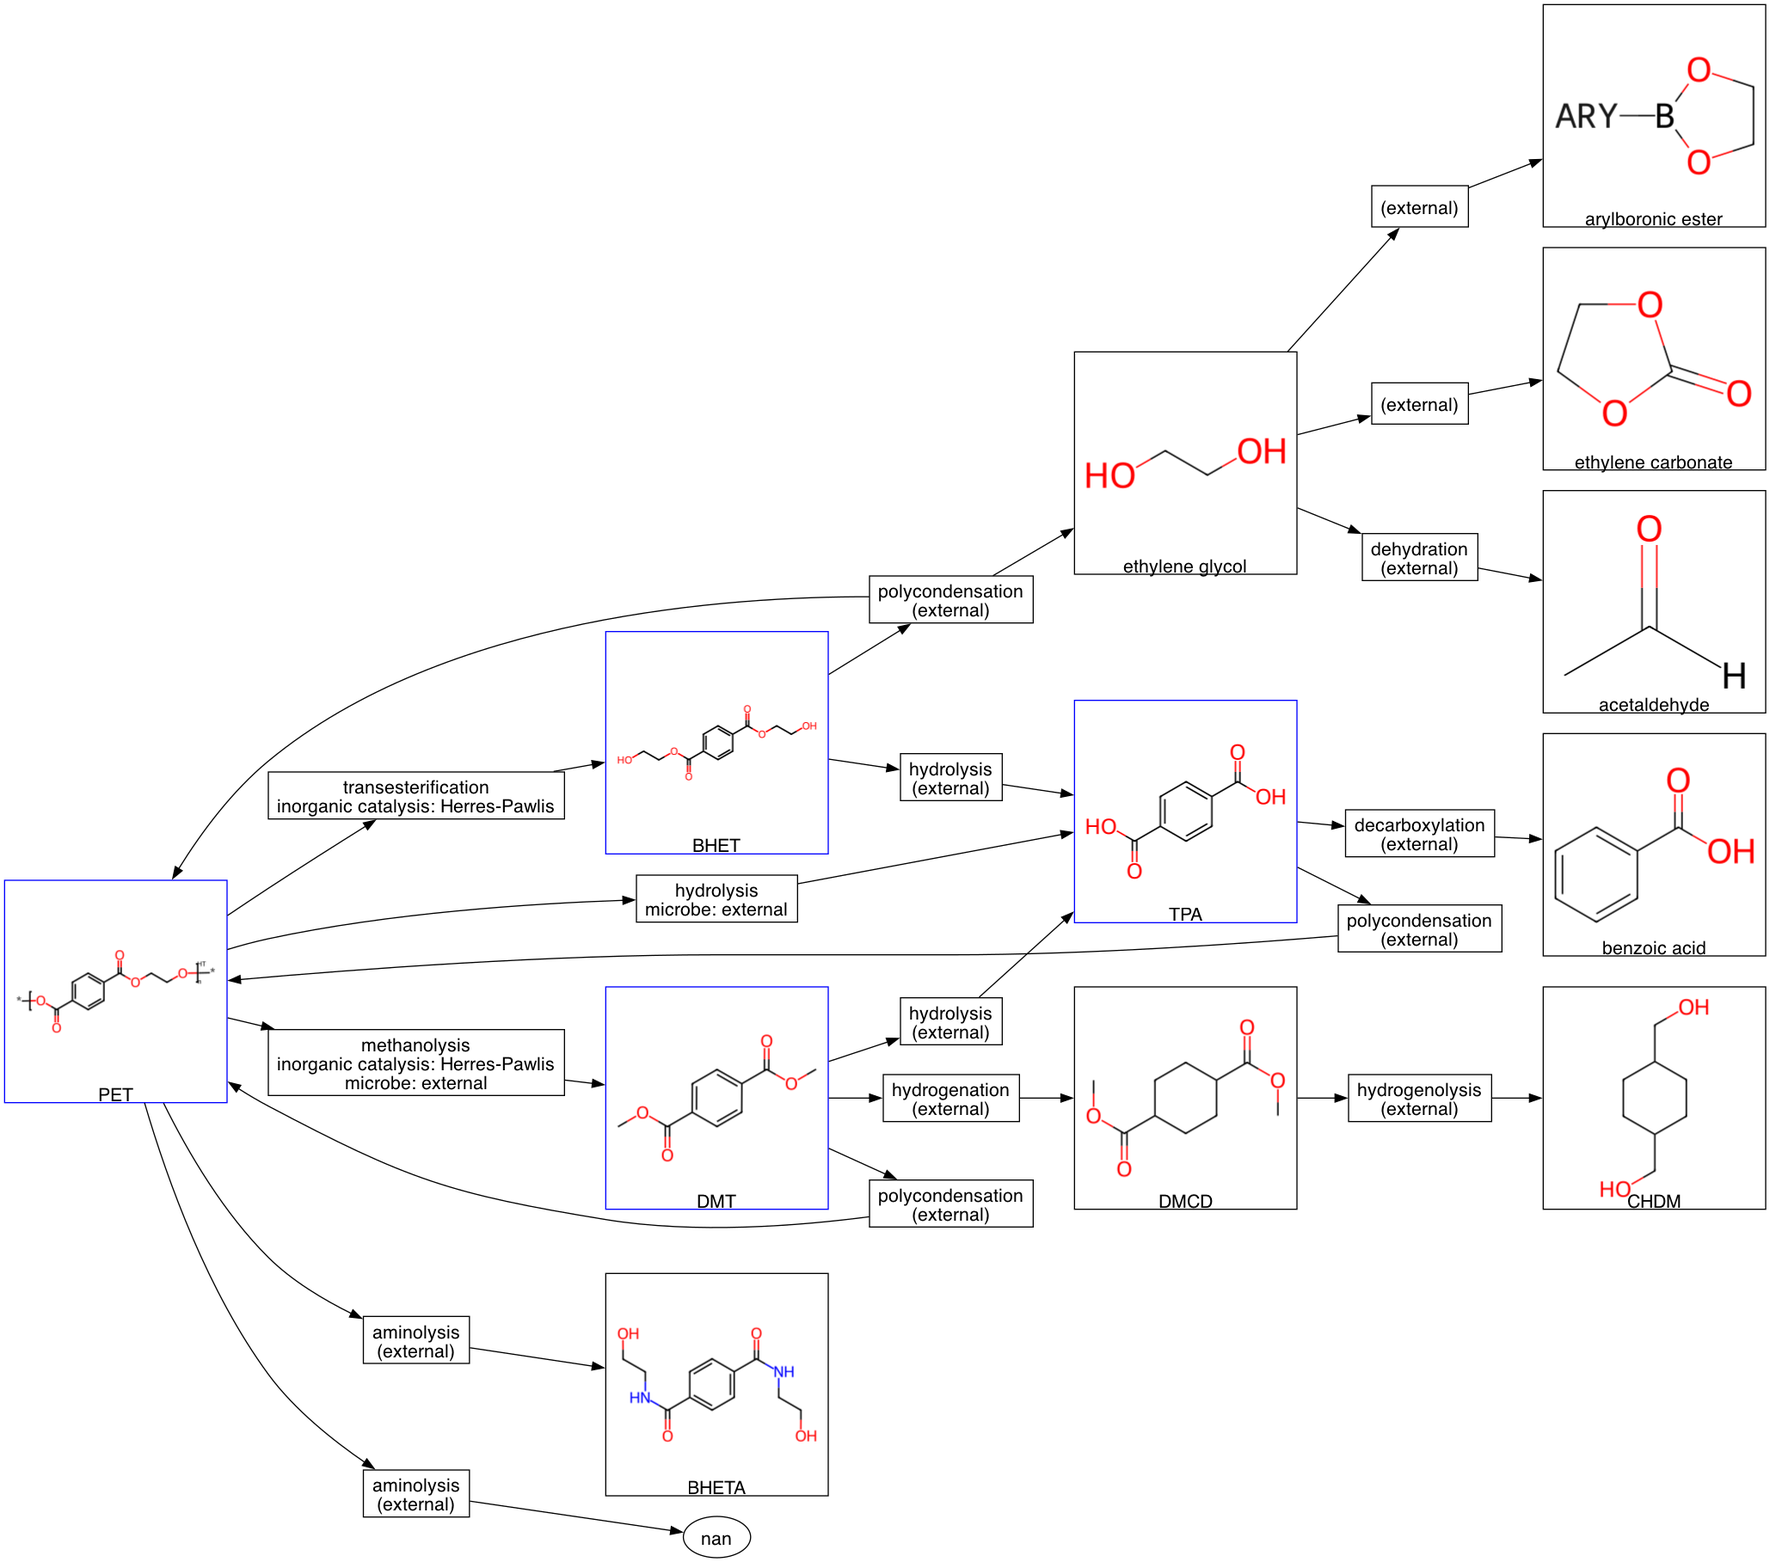
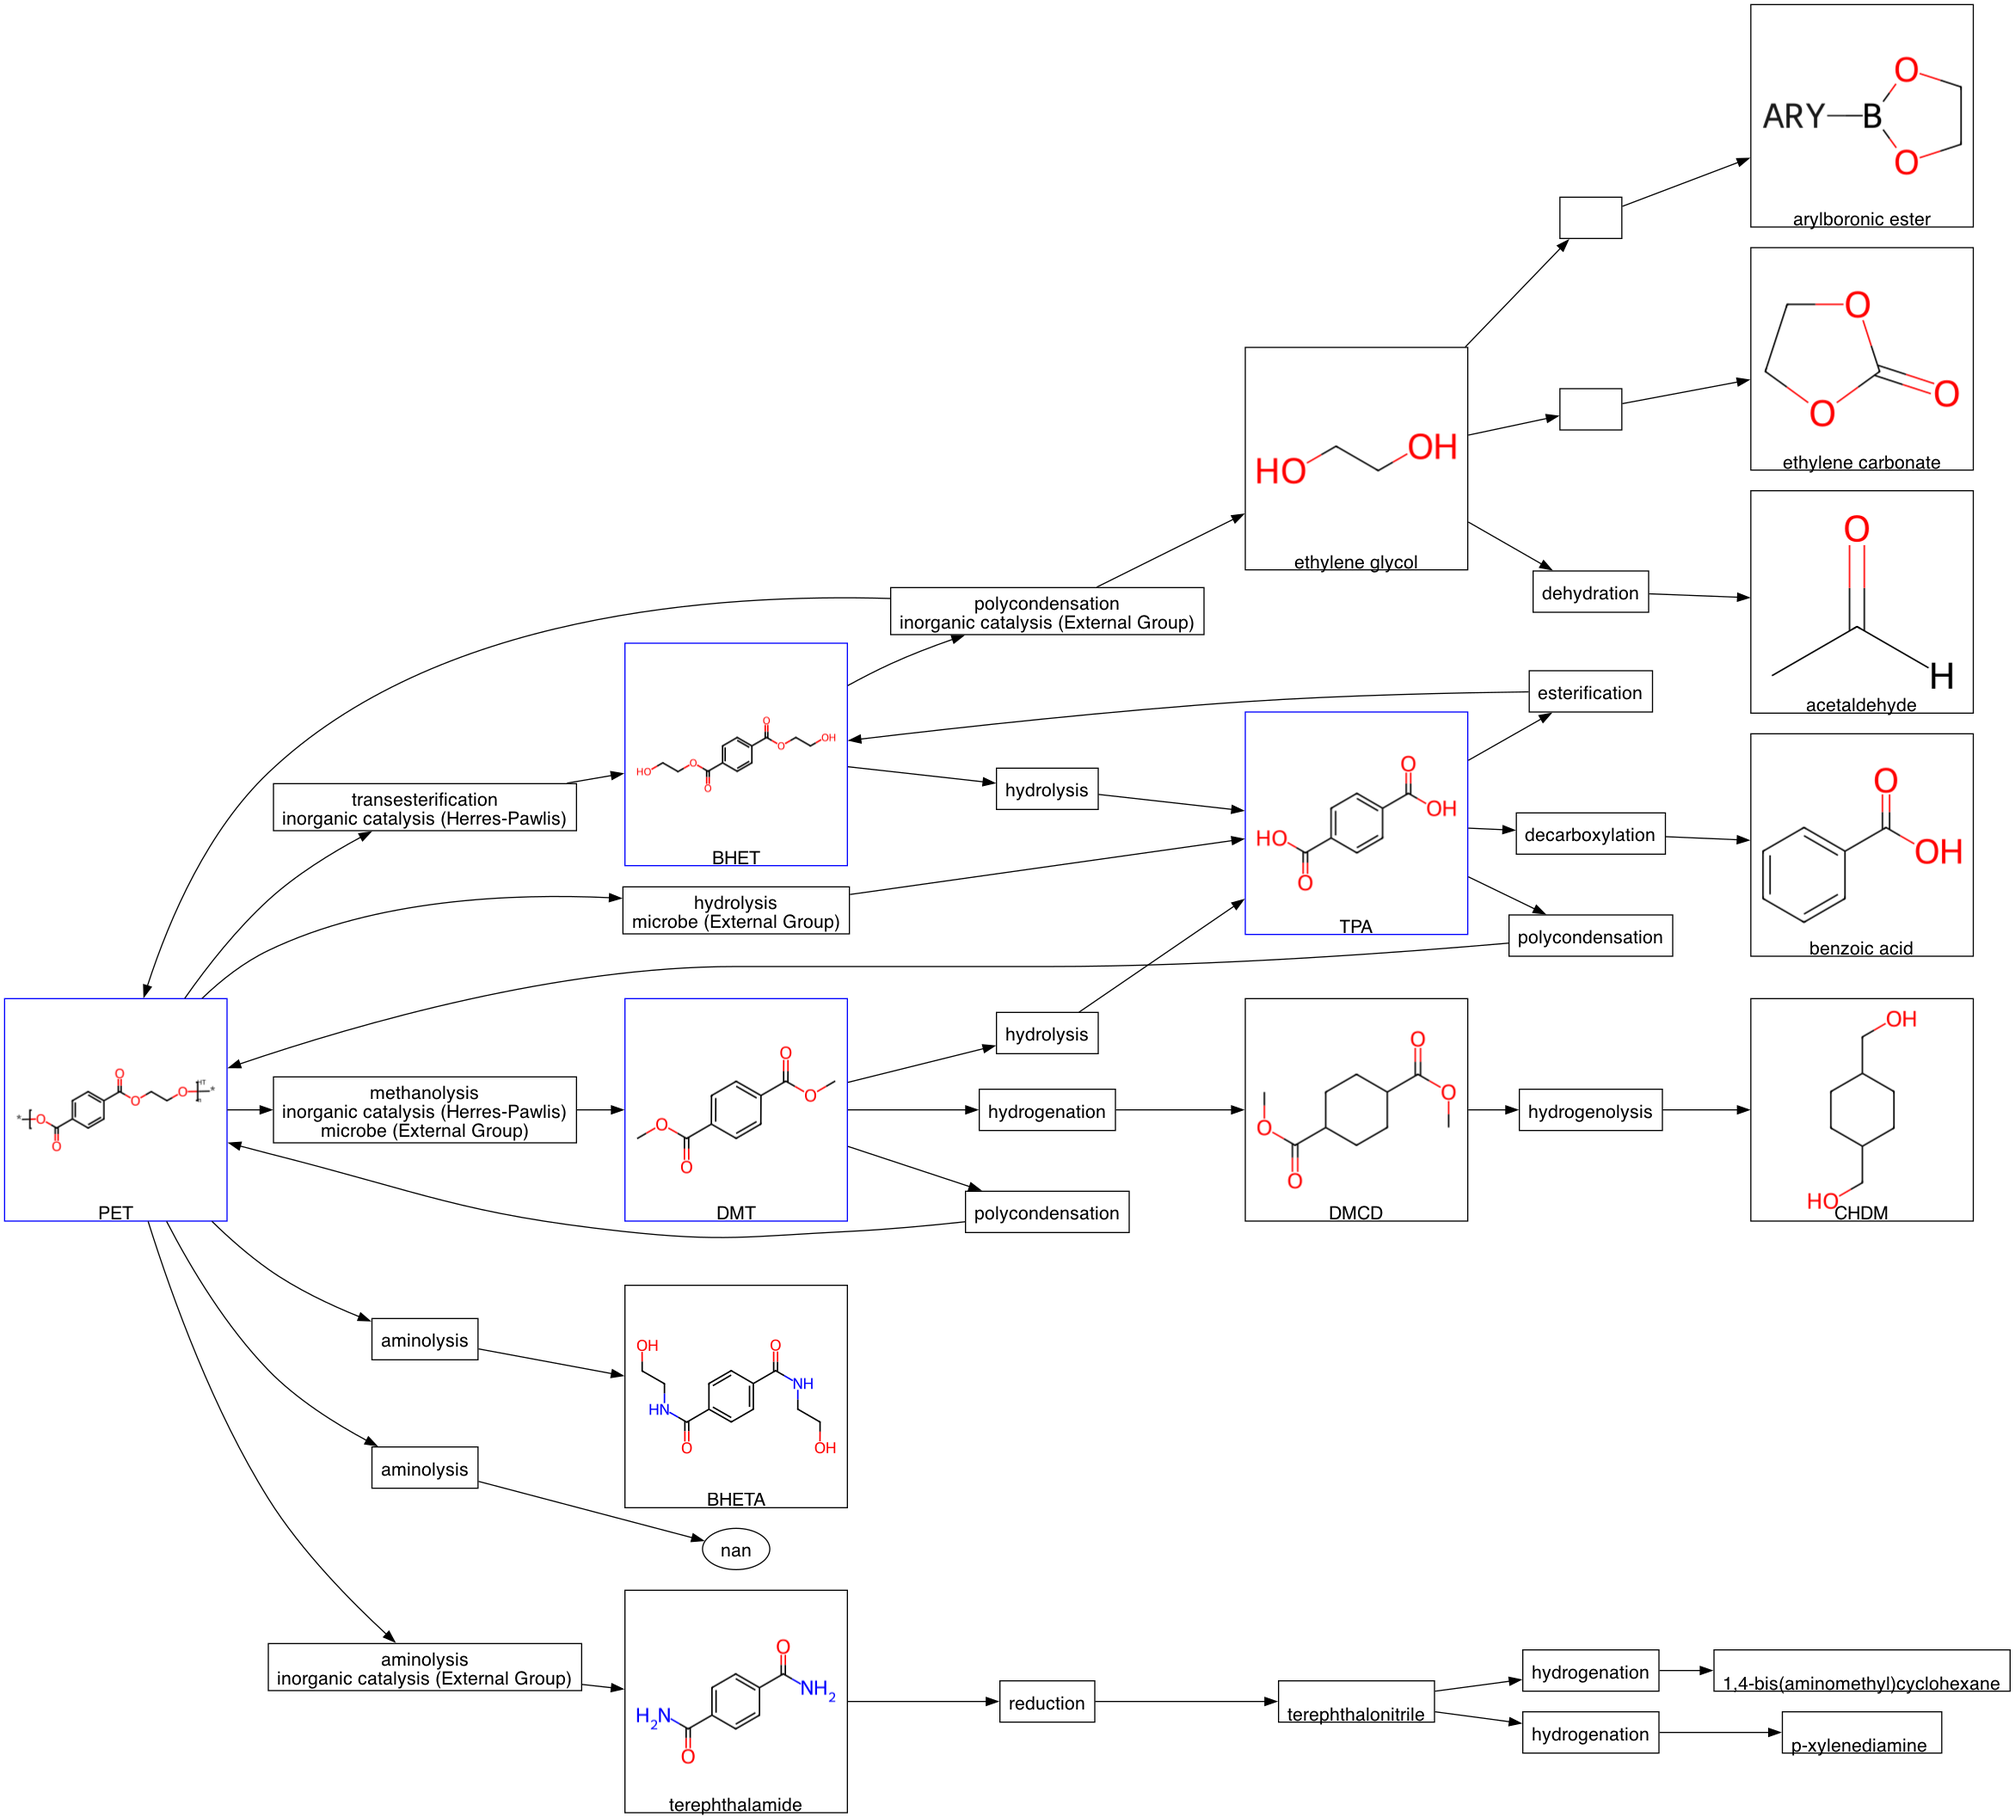
Update chart

diff --git a/draw.py b/draw.py
@@ -48,7 +48,7 @@ def main(add_reagent: bool = False) -> None:
         ["reaction", "type", "group"]
     ].values:
         reaction_to_group_names[reaction][reaction_type].add(
-            lab_id_to_name[group] if pd.notna(group) else "external"
+            lab_id_to_name[group] if pd.notna(group) else "External Group"
         )
 
     graph = pgv.AGraph(directed=True)
@@ -60,7 +60,7 @@ def main(add_reagent: bool = False) -> None:
         }
     )
 
-    chebi_curies = {
+    curies = {
         curie: name
         for pairs in [
             ["input", "input name"],
@@ -78,38 +78,37 @@ def main(add_reagent: bool = False) -> None:
 
     add_node_for = {curie for curies in reactions_df[keep].values for curie in curies}
 
-    imgs = {}
-    for chebi_curie, name in chebi_curies.items():
-        chebi_id = chebi_curie.removeprefix("CHEBI:")
-        svg_path = IMG.joinpath(f"chebi_{chebi_id}.svg")
-        png_path = IMG.joinpath(f"chebi_{chebi_id}.png")
-        url = f"https://www.ebi.ac.uk/chebi/backend/api/public/compound/{chebi_id}/structure/?width=300&height=300"
-        if not svg_path.is_file():
-            download(url, svg_path)
-        if not png_path.is_file():
-            cairosvg.svg2png(
-                url=svg_path.as_posix(),
-                write_to=png_path.as_posix(),
-                output_width=256,  # optional
-                output_height=256,  # optional
-                scale=3.125,
-            )
-
-        imgs[chebi_id] = png_path
-        if chebi_curie in add_node_for:
+    for curie, name in curies.items():
+        if not curie.startswith("CHEBI:"):
+            png_path = None
+        else:
+            chebi_id = curie.removeprefix("CHEBI:")
+            svg_path = IMG.joinpath(f"chebi_{chebi_id}.svg")
+            png_path = IMG.joinpath(f"chebi_{chebi_id}.png")
+            url = f"https://www.ebi.ac.uk/chebi/backend/api/public/compound/{chebi_id}/structure/?width=300&height=300"
+            if not svg_path.is_file():
+                download(url, svg_path)
+            if not png_path.is_file():
+                cairosvg.svg2png(
+                    url=svg_path.as_posix(),
+                    write_to=png_path.as_posix(),
+                    output_width=256,  # optional
+                    output_height=256,  # optional
+                    scale=3.125,
+                )
+        if curie in add_node_for:
             node_attrs = dict(
                 label=name if pd.notna(name) else "???",
-                image=png_path,
                 labelloc="b",
                 shape="box",
-                # imagescale="true",
-                # imagepos="tc",
             )
-            if chebi_curie in HIGHLIGHT:
+            if png_path is not None:
+                node_attrs["image"] = png_path
+            if curie in HIGHLIGHT:
                 node_attrs.update(
                     color="blue"  # border color
                 )
-            graph.add_node(chebi_curie, **node_attrs)
+            graph.add_node(curie, **node_attrs)
 
     for (
         reaction_id,
@@ -127,9 +126,8 @@ def main(add_reagent: bool = False) -> None:
         if type_to_groups := reaction_to_group_names.get(reaction_id):
             for rtype, groups in type_to_groups.items():
                 groups_text = ",".join(sorted(groups))
-                label_parts.append(f"{rtype}: {groups_text}")
-        else:
-            label_parts.append("(external)")
+                label_parts.append(f"{rtype} ({groups_text})")
+
         label = "\n".join(label_parts)
 
         graph.add_node(reaction_id, label=label, shape="box")
